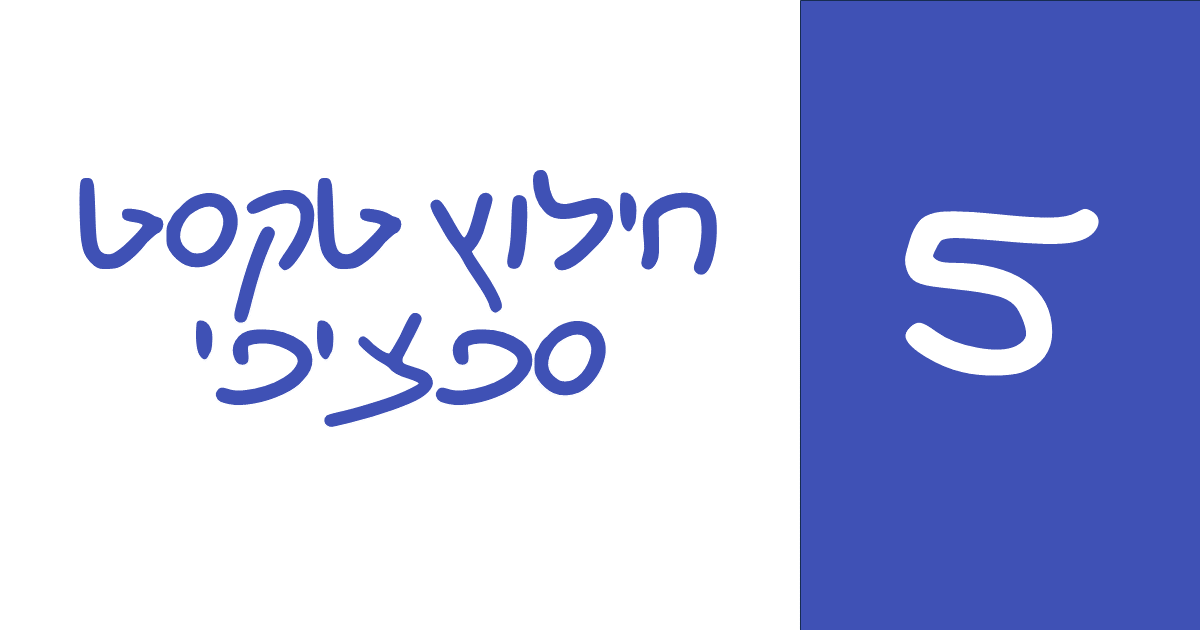
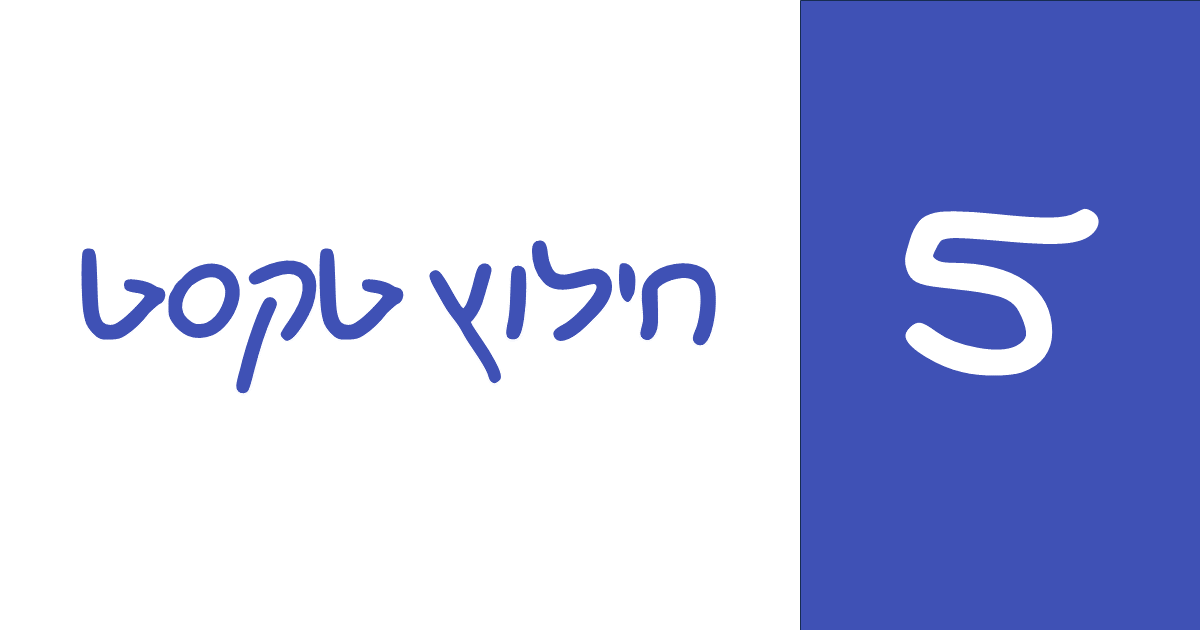
add video to q5, make post ready for live

Changed region(s): [[0.0617, 0.2714, 0.6167, 0.6937]]

diff --git a/_site/questions/5-extract-text-from-logs/index.html b/_site/questions/5-extract-text-from-logs/index.html
@@ -7,10 +7,10 @@
 <meta name="viewport" content="width=device-width, initial-scale=1.0, user-scalable=yes">
 
 <meta name="author" content="">
-<meta name="dcterms.date" content="2023-11-21">
+<meta name="dcterms.date" content="2023-11-28">
 <meta name="description" content="תרגילי SQL משגרת העבודה של אנליסט">
 
-<title>שאילתות מהחיים - חילוץ טקסט ספציפי</title>
+<title>שאילתות מהחיים - חילוץ טקסט</title>
 <style>
 code{white-space: pre-wrap;}
 span.smallcaps{font-variant: small-caps;}
@@ -126,14 +126,14 @@ cookieconsent.run({
 
 
 <link rel="stylesheet" href="../../styles.css">
-<meta property="og:title" content="שאילתות מהחיים - חילוץ טקסט ספציפי">
+<meta property="og:title" content="שאילתות מהחיים - חילוץ טקסט">
 <meta property="og:description" content="חילוץ חלקי טקסט מתוך לוגים">
 <meta property="og:image" content="https://sql.amitgrinson.com/questions/5-extract-text-from-logs/featured.png">
 <meta property="og:site-name" content="שאילתות מהחיים">
 <meta property="og:locale" content="he_IL">
 <meta property="og:image:height" content="630">
 <meta property="og:image:width" content="1200">
-<meta name="twitter:title" content="שאילתות מהחיים - חילוץ טקסט ספציפי">
+<meta name="twitter:title" content="שאילתות מהחיים - חילוץ טקסט">
 <meta name="twitter:description" content="חילוץ חלקי טקסט מתוך לוגים">
 <meta name="twitter:image" content="https://sql.amitgrinson.com/questions/5-extract-text-from-logs/featured.png">
 <meta name="twitter:creator" content="@Amit_Levinson">
@@ -183,7 +183,7 @@ cookieconsent.run({
 <header id="title-block-header" class="quarto-title-block default page-columns page-full">
   <div class="quarto-title-banner page-columns page-full">
     <div class="quarto-title column-body">
-      <h1 class="title">חילוץ טקסט ספציפי</h1>
+      <h1 class="title">חילוץ טקסט</h1>
                   <div>
         <div class="description">
           <p>חילוץ חלקי טקסט מתוך לוגים</p>
@@ -202,7 +202,7 @@ cookieconsent.run({
       <div>
       <div class="quarto-title-meta-heading">Published</div>
       <div class="quarto-title-meta-contents">
-        <p class="date">November 21, 2023</p>
+        <p class="date">November 28, 2023</p>
       </div>
     </div>
     
@@ -292,7 +292,7 @@ cookieconsent.run({
 </section>
 <section id="שאלה-1" class="level2">
 <h2 class="anchored" data-anchor-id="שאלה-1">שאלה 1</h2>
-<p>מתוך כל טקסט בלוג חלצו את השנה בה נרשם היוזר וסכמו את מספר המופעים של כל שנה. סדרו את הפלט לפי מספר השנים (השנה העדכנית ביותר תופיע ראשונה וכן הלאה).</p>
+<p>מתוך כל טקסט בלוג חלצו את השנה בה נרשם היוזר וסכמו את מספר המופעים של כל שנה. סדרו את הפלט לפי שנים (השנה העדכנית ביותר תופיע ראשונה וכן הלאה).</p>
 <p>[פלט למטה]</p>
 </section>
 <section id="שאלה-2" class="level2">
@@ -425,6 +425,7 @@ cookieconsent.run({
 <h2 class="anchored" data-anchor-id="תשובות">תשובות</h2>
 <section id="סרטון-הסבר" class="level3">
 <h3 class="anchored" data-anchor-id="סרטון-הסבר">סרטון הסבר</h3>
+<div class="quarto-video ratio ratio-16x9"><iframe data-external="1" src="https://www.youtube.com/embed/JxWhCX2-h0g" title="" frameborder="0" allow="accelerometer; autoplay; clipboard-write; encrypted-media; gyroscope; picture-in-picture" allowfullscreen=""></iframe></div>
 </section>
 <section id="תשובה-1" class="level3">
 <h3 class="anchored" data-anchor-id="תשובה-1">תשובה 1</h3>
@@ -434,10 +435,10 @@ cookieconsent.run({
 </summary>
 <div class="cell">
 <div class="sourceCode cell-code" id="cb3"><pre class="sourceCode sql code-with-copy"><code class="sourceCode sql"><span id="cb3-1"><a href="#cb3-1" aria-hidden="true" tabindex="-1"></a><span class="kw">SELECT</span>  </span>
-<span id="cb3-2"><a href="#cb3-2" aria-hidden="true" tabindex="-1"></a>    registered_year <span class="op">=</span> SUBSTRING(LOG_TEXT, CHARINDEX(<span class="st">'registered in '</span>, LOG_TEXT) <span class="op">+</span> len(<span class="st">'registered in '</span>), <span class="dv">5</span>),</span>
+<span id="cb3-2"><a href="#cb3-2" aria-hidden="true" tabindex="-1"></a>    registered_year <span class="op">=</span> SUBSTRING(LOG_TEXT, CHARINDEX(<span class="st">'registered in '</span>, LOG_TEXT) <span class="op">+</span> len(<span class="st">'registered in.'</span>), <span class="dv">4</span>), <span class="co">-- LEN() ignores trailing spaces so a sapce is replaces with a period</span></span>
 <span id="cb3-3"><a href="#cb3-3" aria-hidden="true" tabindex="-1"></a>    <span class="fu">COUNT</span>(<span class="op">*</span>) <span class="kw">AS</span> n</span>
 <span id="cb3-4"><a href="#cb3-4" aria-hidden="true" tabindex="-1"></a><span class="kw">FROM</span> logs_q5</span>
-<span id="cb3-5"><a href="#cb3-5" aria-hidden="true" tabindex="-1"></a><span class="kw">GROUP</span> <span class="kw">BY</span> SUBSTRING(LOG_TEXT, CHARINDEX(<span class="st">'registered in '</span>, LOG_TEXT) <span class="op">+</span> len(<span class="st">'registered in '</span>), <span class="dv">5</span>)</span>
+<span id="cb3-5"><a href="#cb3-5" aria-hidden="true" tabindex="-1"></a><span class="kw">GROUP</span> <span class="kw">BY</span> SUBSTRING(LOG_TEXT, CHARINDEX(<span class="st">'registered in '</span>, LOG_TEXT) <span class="op">+</span> len(<span class="st">'registered in.'</span>), <span class="dv">4</span>)</span>
 <span id="cb3-6"><a href="#cb3-6" aria-hidden="true" tabindex="-1"></a><span class="kw">ORDER</span> <span class="kw">BY</span> registered_year <span class="kw">DESC</span>;</span></code><button title="Copy to Clipboard" class="code-copy-button"><i class="bi"></i></button></pre></div>
 </div>
 </details>
@@ -507,9 +508,9 @@ cookieconsent.run({
 <span id="cb4-5"><a href="#cb4-5" aria-hidden="true" tabindex="-1"></a>        SUBSTRING(</span>
 <span id="cb4-6"><a href="#cb4-6" aria-hidden="true" tabindex="-1"></a>            log_text,</span>
 <span id="cb4-7"><a href="#cb4-7" aria-hidden="true" tabindex="-1"></a>            CHARINDEX(<span class="st">'closure reason: '</span>, log_text) <span class="op">+</span> LEN(<span class="st">'closure reason: '</span>),</span>
-<span id="cb4-8"><a href="#cb4-8" aria-hidden="true" tabindex="-1"></a>                <span class="cf">CASE</span></span>
+<span id="cb4-8"><a href="#cb4-8" aria-hidden="true" tabindex="-1"></a>            <span class="cf">CASE</span></span>
 <span id="cb4-9"><a href="#cb4-9" aria-hidden="true" tabindex="-1"></a>                <span class="cf">WHEN</span> CHARINDEX(<span class="st">'Current status'</span>, log_text) <span class="op">=</span> <span class="dv">0</span> <span class="cf">THEN</span> LEN(log_text)</span>
-<span id="cb4-10"><a href="#cb4-10" aria-hidden="true" tabindex="-1"></a>              <span class="cf">ELSE</span> CHARINDEX(<span class="st">'Current status'</span>, log_text) <span class="op">-</span> CHARINDEX(<span class="st">'closure reason: '</span>,log_text) <span class="op">-</span> LEN(<span class="st">'closure reason: '</span>)</span>
+<span id="cb4-10"><a href="#cb4-10" aria-hidden="true" tabindex="-1"></a>            <span class="cf">ELSE</span> CHARINDEX(<span class="st">'Current status'</span>, log_text) <span class="op">-</span> CHARINDEX(<span class="st">'closure reason: '</span>,log_text) <span class="op">-</span> LEN(<span class="st">'closure reason: '</span>)</span>
 <span id="cb4-11"><a href="#cb4-11" aria-hidden="true" tabindex="-1"></a>                <span class="cf">END</span>),</span>
 <span id="cb4-12"><a href="#cb4-12" aria-hidden="true" tabindex="-1"></a>        <span class="st">'.'</span>, <span class="st">''</span>)</span>
 <span id="cb4-13"><a href="#cb4-13" aria-hidden="true" tabindex="-1"></a>    <span class="kw">FROM</span> logs_q5</span>

diff --git a/_site/questions/6-implementing-forumals/index.html b/_site/questions/6-implementing-forumals/index.html
@@ -485,8 +485,8 @@ Z_i = \frac{X_i - min(x)}{max(x) - min(x)} * 100
 <div class="cell">
 <div class="sourceCode cell-code" id="cb4"><pre class="sourceCode sql code-with-copy"><code class="sourceCode sql"><span id="cb4-1"><a href="#cb4-1" aria-hidden="true" tabindex="-1"></a><span class="kw">SELECT</span> TOP <span class="dv">10</span> <span class="kw">category</span>,</span>
 <span id="cb4-2"><a href="#cb4-2" aria-hidden="true" tabindex="-1"></a>    amount,</span>
-<span id="cb4-3"><a href="#cb4-3" aria-hidden="true" tabindex="-1"></a>    amount_noramlized <span class="op">=</span> (AMOUNT <span class="op">-</span> <span class="fu">MIN</span>(AMOUNT) <span class="kw">OVER</span> (<span class="kw">PARTITION</span> <span class="kw">BY</span> <span class="kw">category</span>)) <span class="op">*</span> <span class="fl">1.0</span> <span class="op">/</span> </span>
-<span id="cb4-4"><a href="#cb4-4" aria-hidden="true" tabindex="-1"></a>                        (<span class="fu">MAX</span>(AMOUNT) <span class="kw">OVER</span> (<span class="kw">PARTITION</span> <span class="kw">BY</span> <span class="kw">category</span>) <span class="op">-</span> <span class="fu">MIN</span>(AMOUNT) <span class="kw">OVER</span> (<span class="kw">PARTITION</span> <span class="kw">BY</span> <span class="kw">category</span>)) <span class="op">*</span> <span class="dv">100</span></span>
+<span id="cb4-3"><a href="#cb4-3" aria-hidden="true" tabindex="-1"></a>    (AMOUNT <span class="op">-</span> <span class="fu">MIN</span>(AMOUNT) <span class="kw">OVER</span> (<span class="kw">PARTITION</span> <span class="kw">BY</span> <span class="kw">category</span>)) <span class="op">*</span> <span class="fl">1.0</span> <span class="op">/</span> </span>
+<span id="cb4-4"><a href="#cb4-4" aria-hidden="true" tabindex="-1"></a>                        (<span class="fu">MAX</span>(AMOUNT) <span class="kw">OVER</span> (<span class="kw">PARTITION</span> <span class="kw">BY</span> <span class="kw">category</span>) <span class="op">-</span> <span class="fu">MIN</span>(AMOUNT) <span class="kw">OVER</span> (<span class="kw">PARTITION</span> <span class="kw">BY</span> <span class="kw">category</span>)) <span class="op">*</span> <span class="dv">100</span> <span class="kw">AS</span> amount_normalized</span>
 <span id="cb4-5"><a href="#cb4-5" aria-hidden="true" tabindex="-1"></a><span class="kw">FROM</span> items_q6</span>
 <span id="cb4-6"><a href="#cb4-6" aria-hidden="true" tabindex="-1"></a><span class="kw">order</span> <span class="kw">by</span> <span class="kw">category</span>, amount_noramlized</span></code><button title="Copy to Clipboard" class="code-copy-button"><i class="bi"></i></button></pre></div>
 </div>
